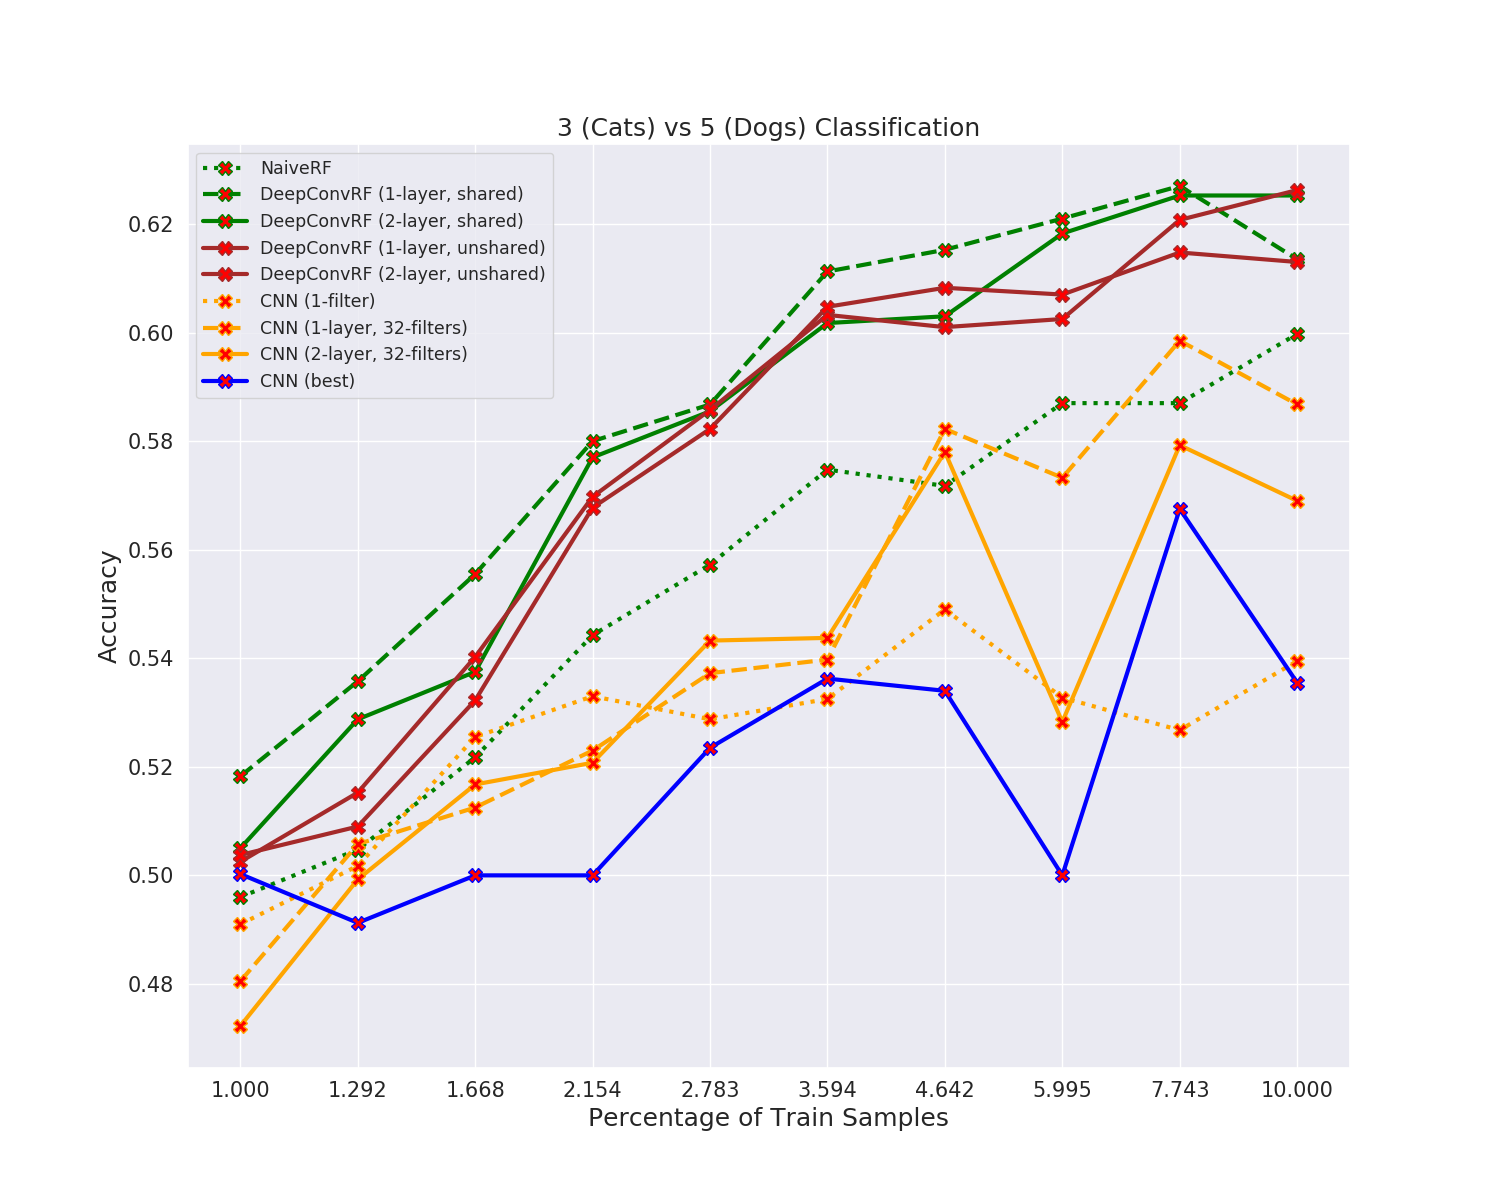
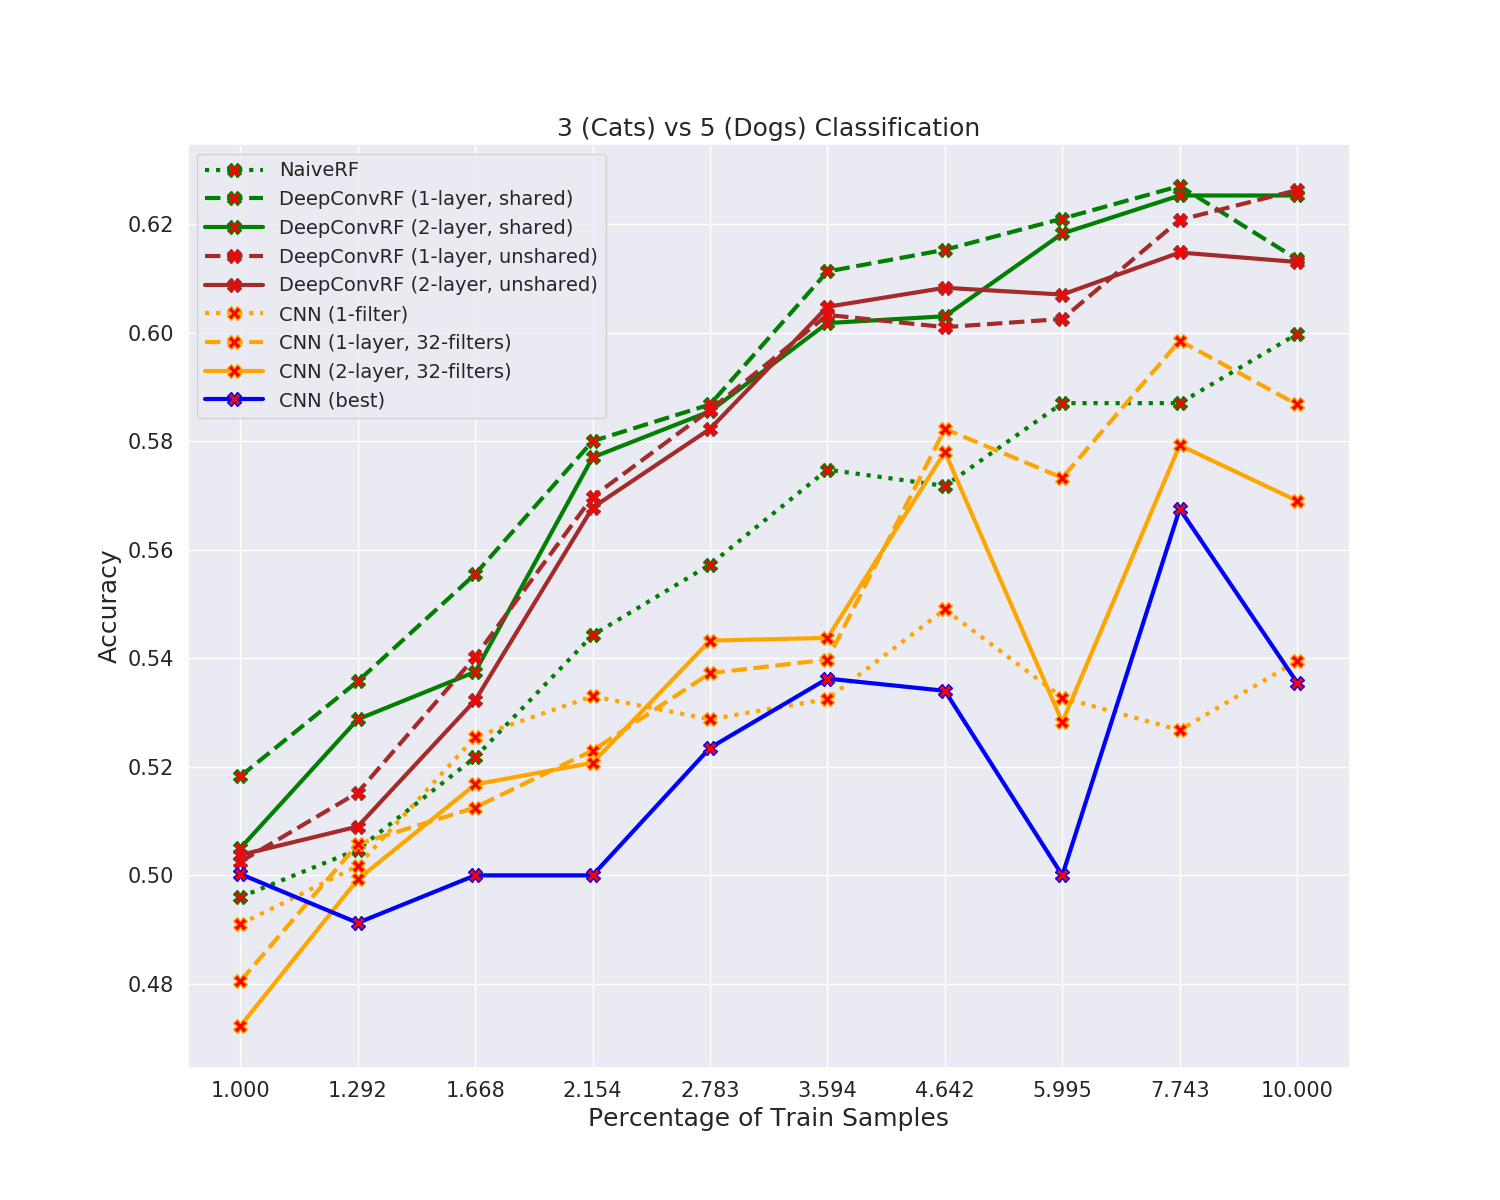
Update plot for 10% data and update code for 35% data

Changed region(s): [[0.1227, 0.1233, 0.3987, 0.3392]]

diff --git a/experiments/DeepConvRF/DeepConvSharedRFBaselineCIFAR10.py b/experiments/DeepConvRF/DeepConvSharedRFBaselineCIFAR10.py
@@ -529,7 +529,7 @@ def run_cnn(cnn_model, train_images, train_labels, test_images, test_labels, fra
 # Experiments
 ###############################################################################
 
-fraction_of_train_samples_space = np.geomspace(0.01, 0.1, num=10)
+fraction_of_train_samples_space = np.geomspace(0.01, 0.35, num=10)
 
 
 def print_old_results(file_name):
@@ -594,10 +594,10 @@ cnn_best_acc_vs_n = run_experiment(run_cnn, "cnn_best_acc_vs_n",
 # Plots
 ###############################################################################
 
-plt.rcParams['figure.figsize'] = 13, 10
+plt.rcParams['figure.figsize'] = 15, 12
 plt.rcParams['font.size'] = 25
-plt.rcParams['legend.fontsize'] = 16.5
-plt.rcParams['legend.handlelength'] = 2.5
+plt.rcParams['legend.fontsize'] = 14
+plt.rcParams['legend.handlelength'] = 3
 plt.rcParams['figure.titlesize'] = 20
 plt.rcParams['xtick.labelsize'] = 15
 plt.rcParams['ytick.labelsize'] = 15
@@ -611,7 +611,7 @@ ax.plot(fraction_of_train_samples_space*100, deep_conv_rf_two_layer_acc_vs_n, ma
         markerfacecolor='red', markersize=10, color='green', linewidth=3, label="DeepConvRF (2-layer, shared)")
 
 ax.plot(fraction_of_train_samples_space*100, deep_conv_rf_old_acc_vs_n, marker='X',
-        markerfacecolor='red', markersize=10, color='brown', linewidth=3, label="DeepConvRF (1-layer, unshared)")
+        markerfacecolor='red', markersize=10, color='brown', linewidth=3, linestyle="--", label="DeepConvRF (1-layer, unshared)")
 ax.plot(fraction_of_train_samples_space*100, deep_conv_rf_old_two_layer_acc_vs_n, marker='X',
         markerfacecolor='red', markersize=10, color='brown', linewidth=3, label="DeepConvRF (2-layer, unshared)")
 
